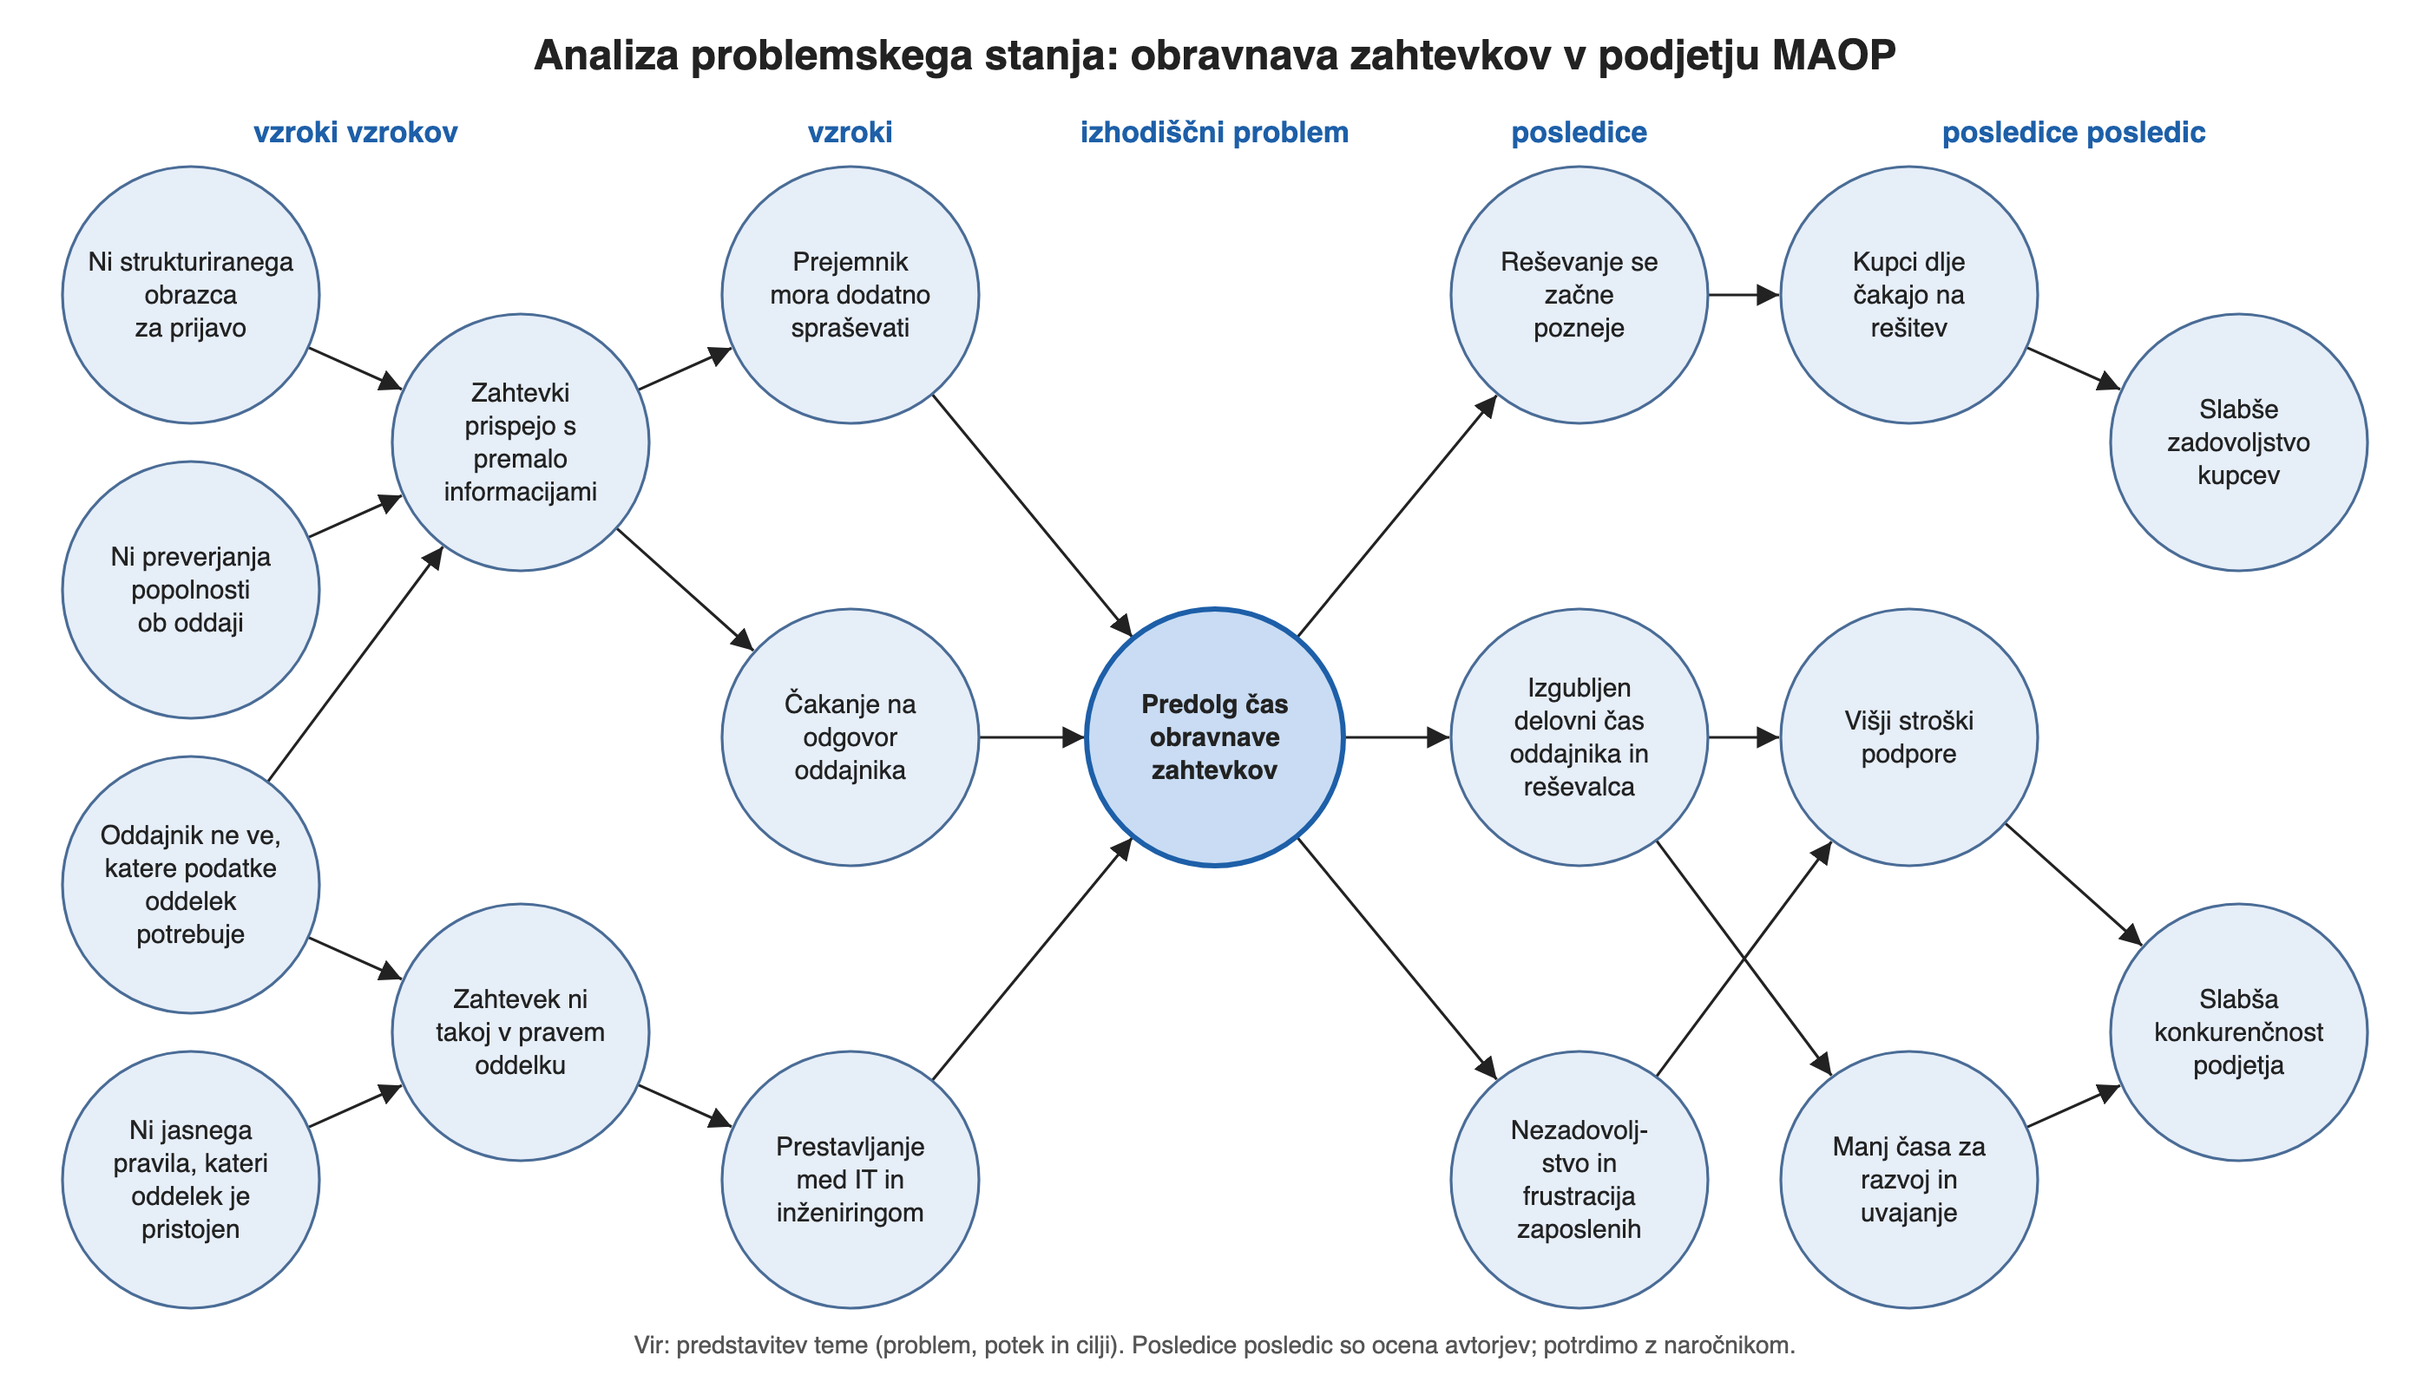
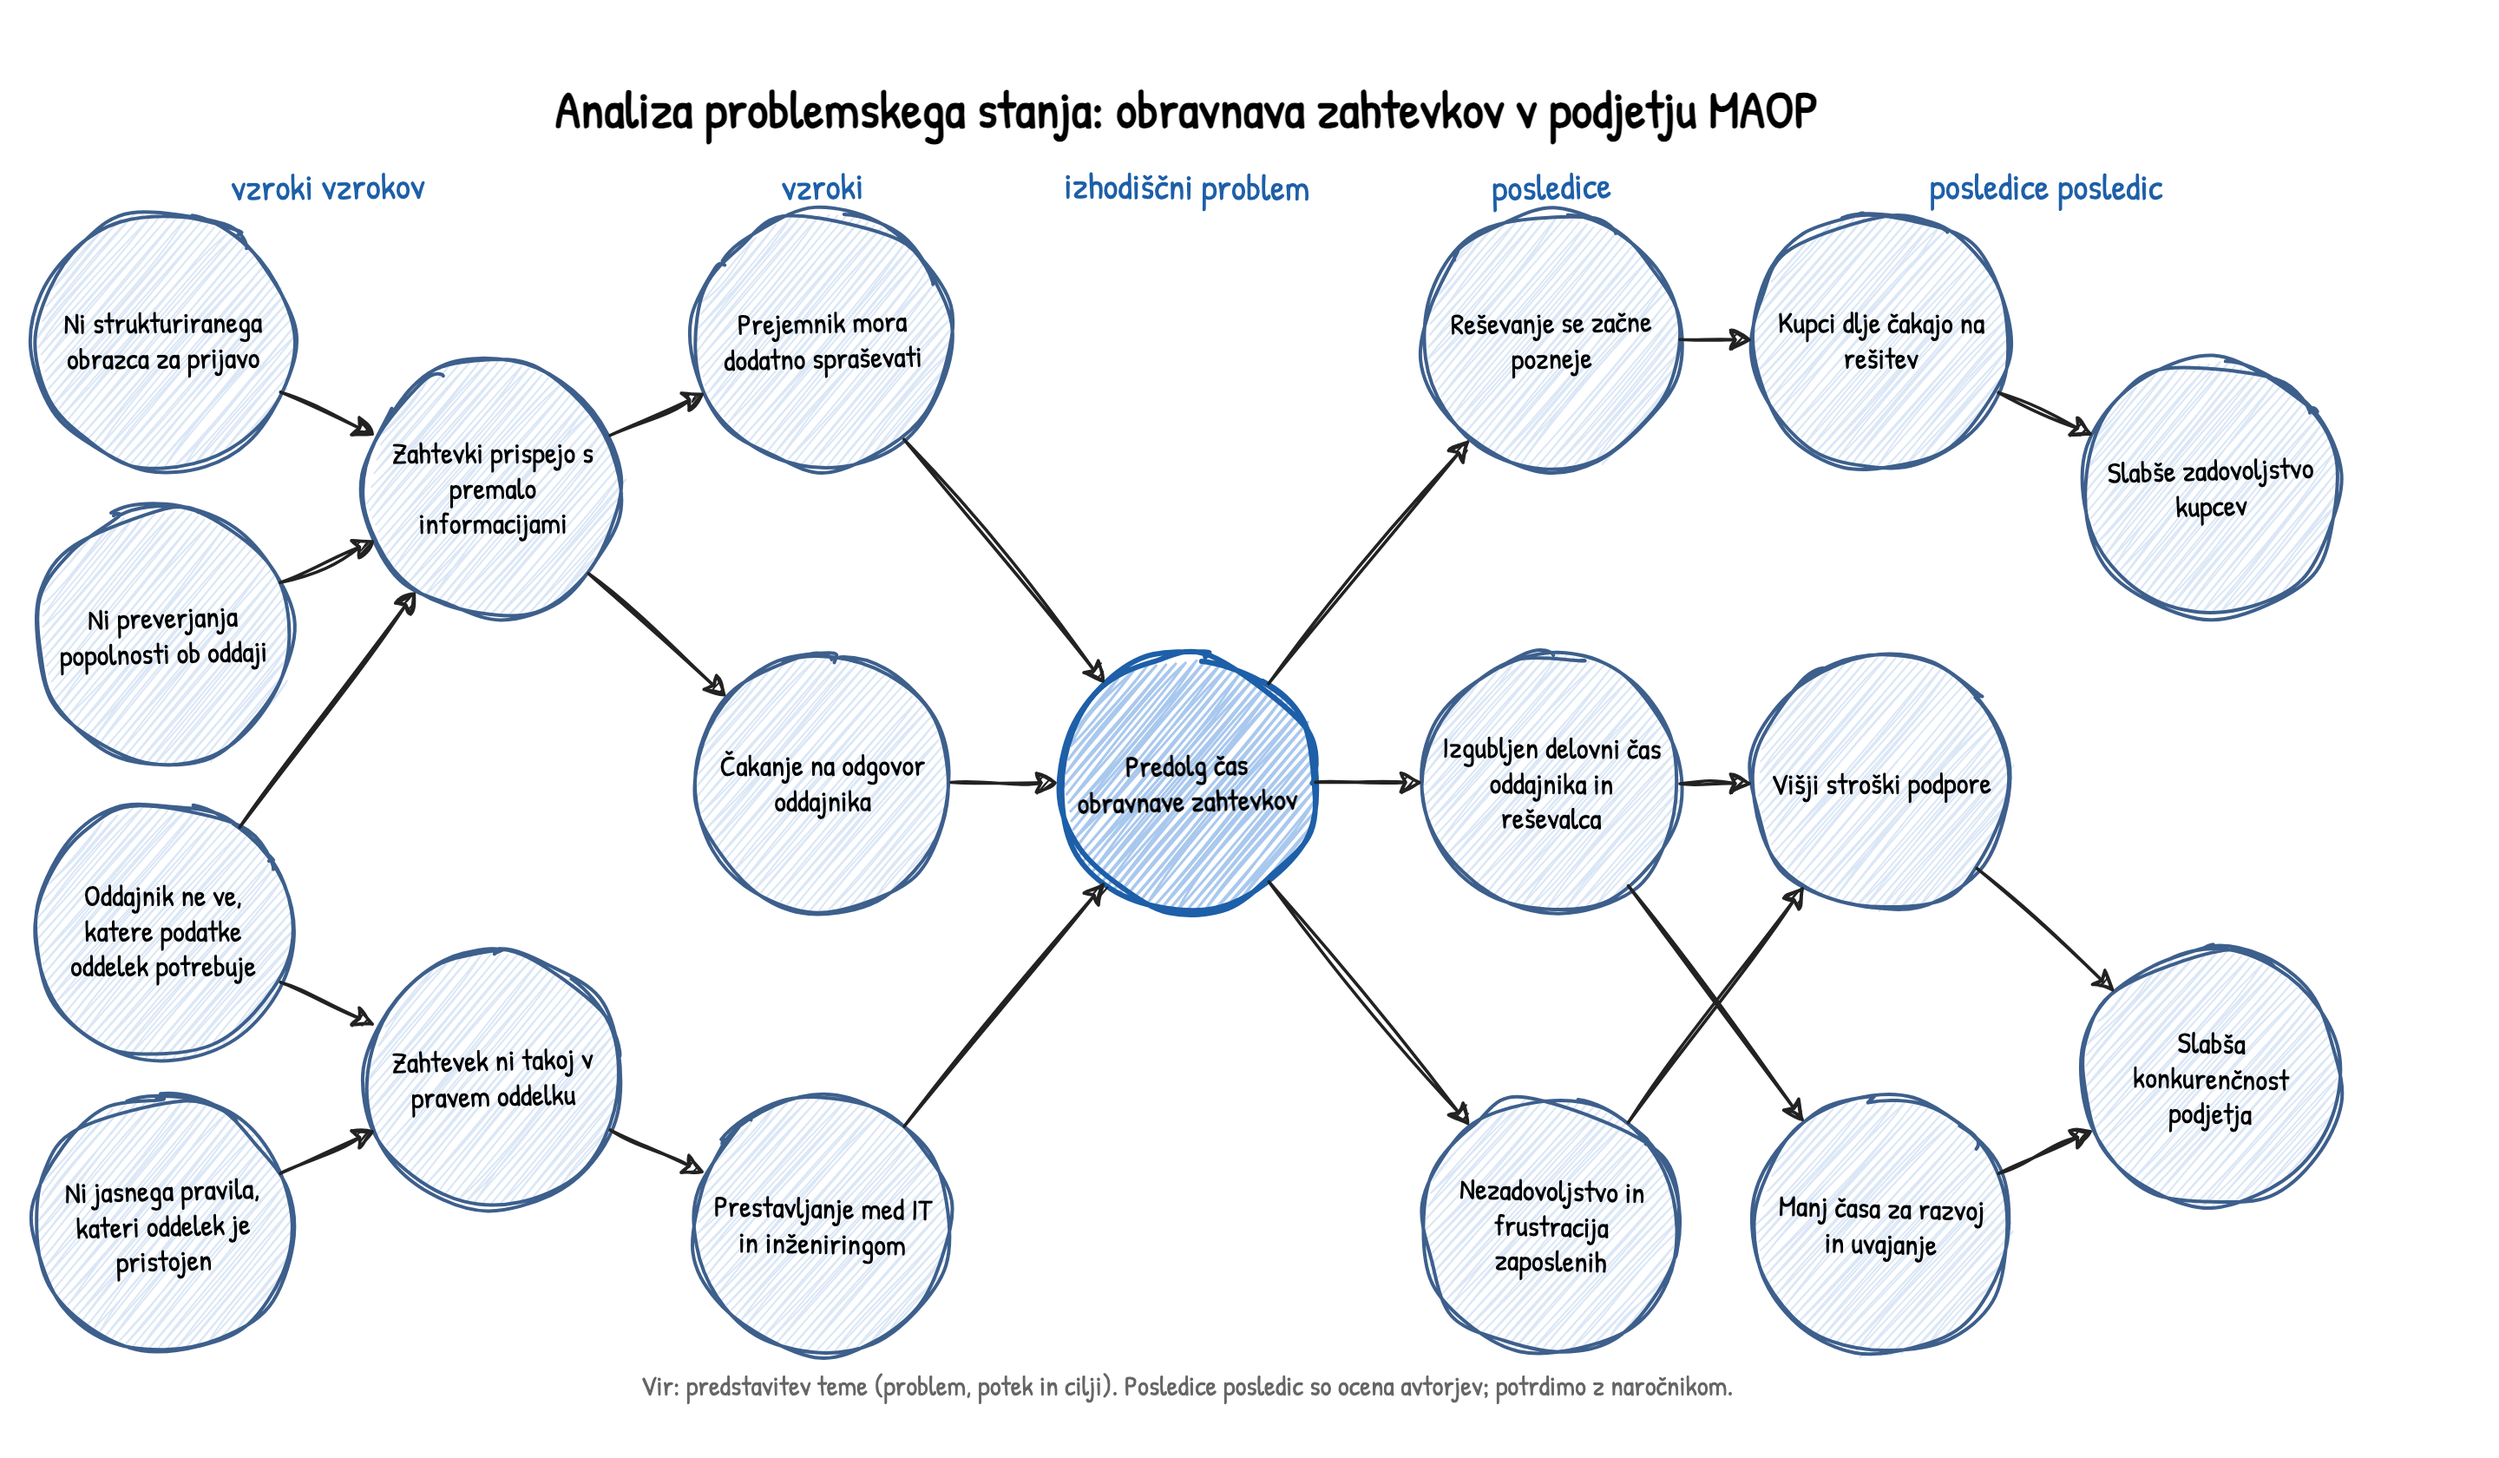
docs(analiza): redraw diagrams as sketch-style drawio files

diff --git a/docs/analiza problemskega stanja/README.md b/docs/analiza problemskega stanja/README.md
@@ -7,10 +7,11 @@ obravnave zahtevkov.
 
 Datoteke:
 
-- [`analiza-problemskega-stanja.svg`](analiza-problemskega-stanja.svg): izvorna slika
-- [`analiza-problemskega-stanja.png`](analiza-problemskega-stanja.png): slika za Word (2800 × 1600 px)
-- [`generiraj.py`](generiraj.py): ustvari SVG (besedila krogov in puščice so na vrhu datoteke);
-  `python3 generiraj.py analiza-problemskega-stanja.svg`
+- [`analiza-problemskega-stanja.drawio`](analiza-problemskega-stanja.drawio): izvorna slika;
+  odpri v <https://app.diagrams.net/> (File → Open from → Device). Narisana je v ročnem slogu
+  (sketch) s pisavo Patrick Hand.
+- [`analiza-problemskega-stanja.png`](analiza-problemskega-stanja.png): slika za Word. Po
+  spremembi jo ponovno izvozi v diagrams.net: File → Export as → PNG (zoom 200 %).
 
 Usmeritve: `docs/analiza_problemskega_stanja.pdf`. Uporabljena sta samo krog in ravna puščica;
 izhodiščni problem je v sredini, vzroki in vzroki vzrokov levo, posledice in posledice posledic

diff --git a/docs/obogatena slika/README.md b/docs/obogatena slika/README.md
@@ -6,8 +6,10 @@ Poglavje 2.2 seminarske naloge: obogatena slika (rich picture) obravnave zahtevk
 
 Datoteke:
 
-- [`obogatena-slika.svg`](obogatena-slika.svg): izvorna slika (vektorska, urejanje v brskalniku, Inkscape ali Visio)
-- [`obogatena-slika.png`](obogatena-slika.png): slika za vstavljanje v Word (3200 × 2120 px)
+- [`obogatena-slika.drawio`](obogatena-slika.drawio): izvorna slika; odpri v <https://app.diagrams.net/>
+  (File → Open from → Device). Narisana je v ročnem slogu (sketch) s pisavo Patrick Hand.
+- [`obogatena-slika.png`](obogatena-slika.png): slika za vstavljanje v Word. Po spremembi jo
+  ponovno izvozi v diagrams.net: File → Export as → PNG (zoom 200 %).
 
 Usmeritve: V. Pham, *Rich Pictures and CATWOE: Simple yet Powerful Scope-Modelling Techniques*,
 Elabor8, 11. 8. 2014,
